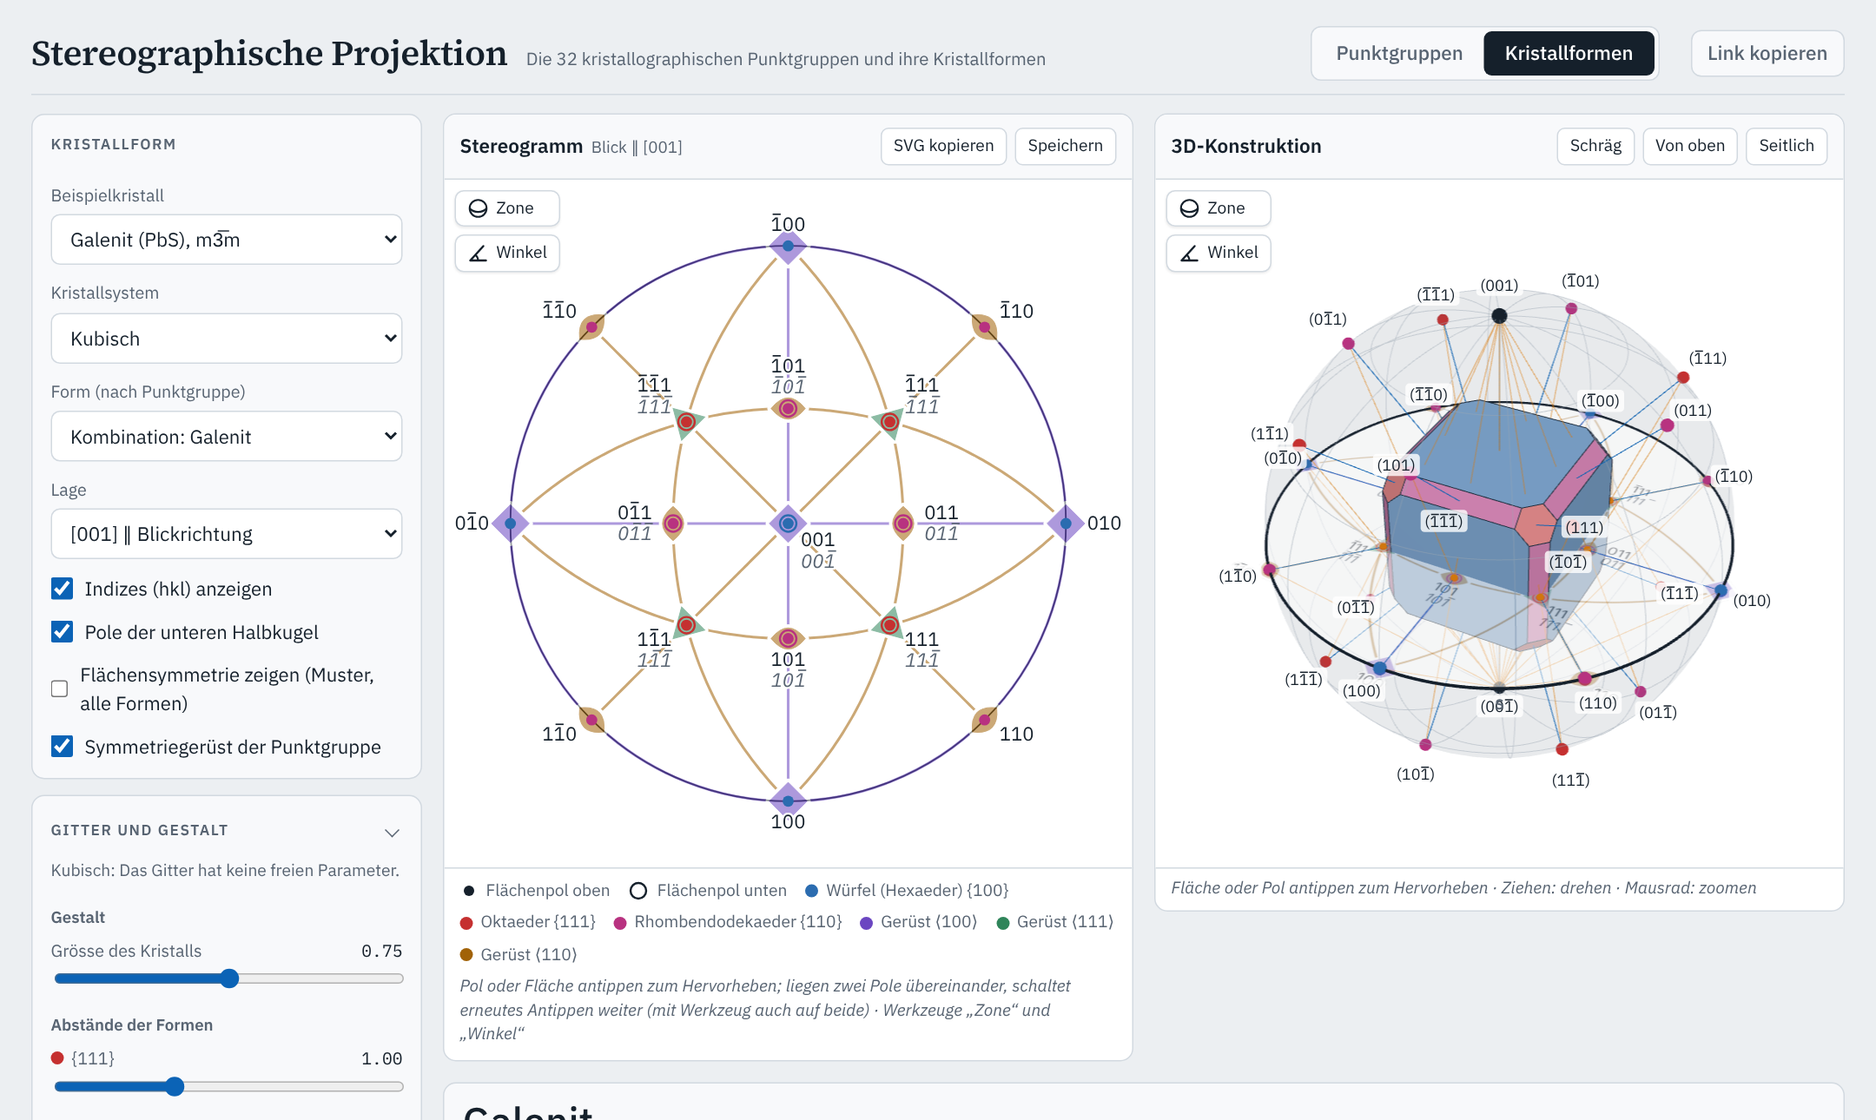
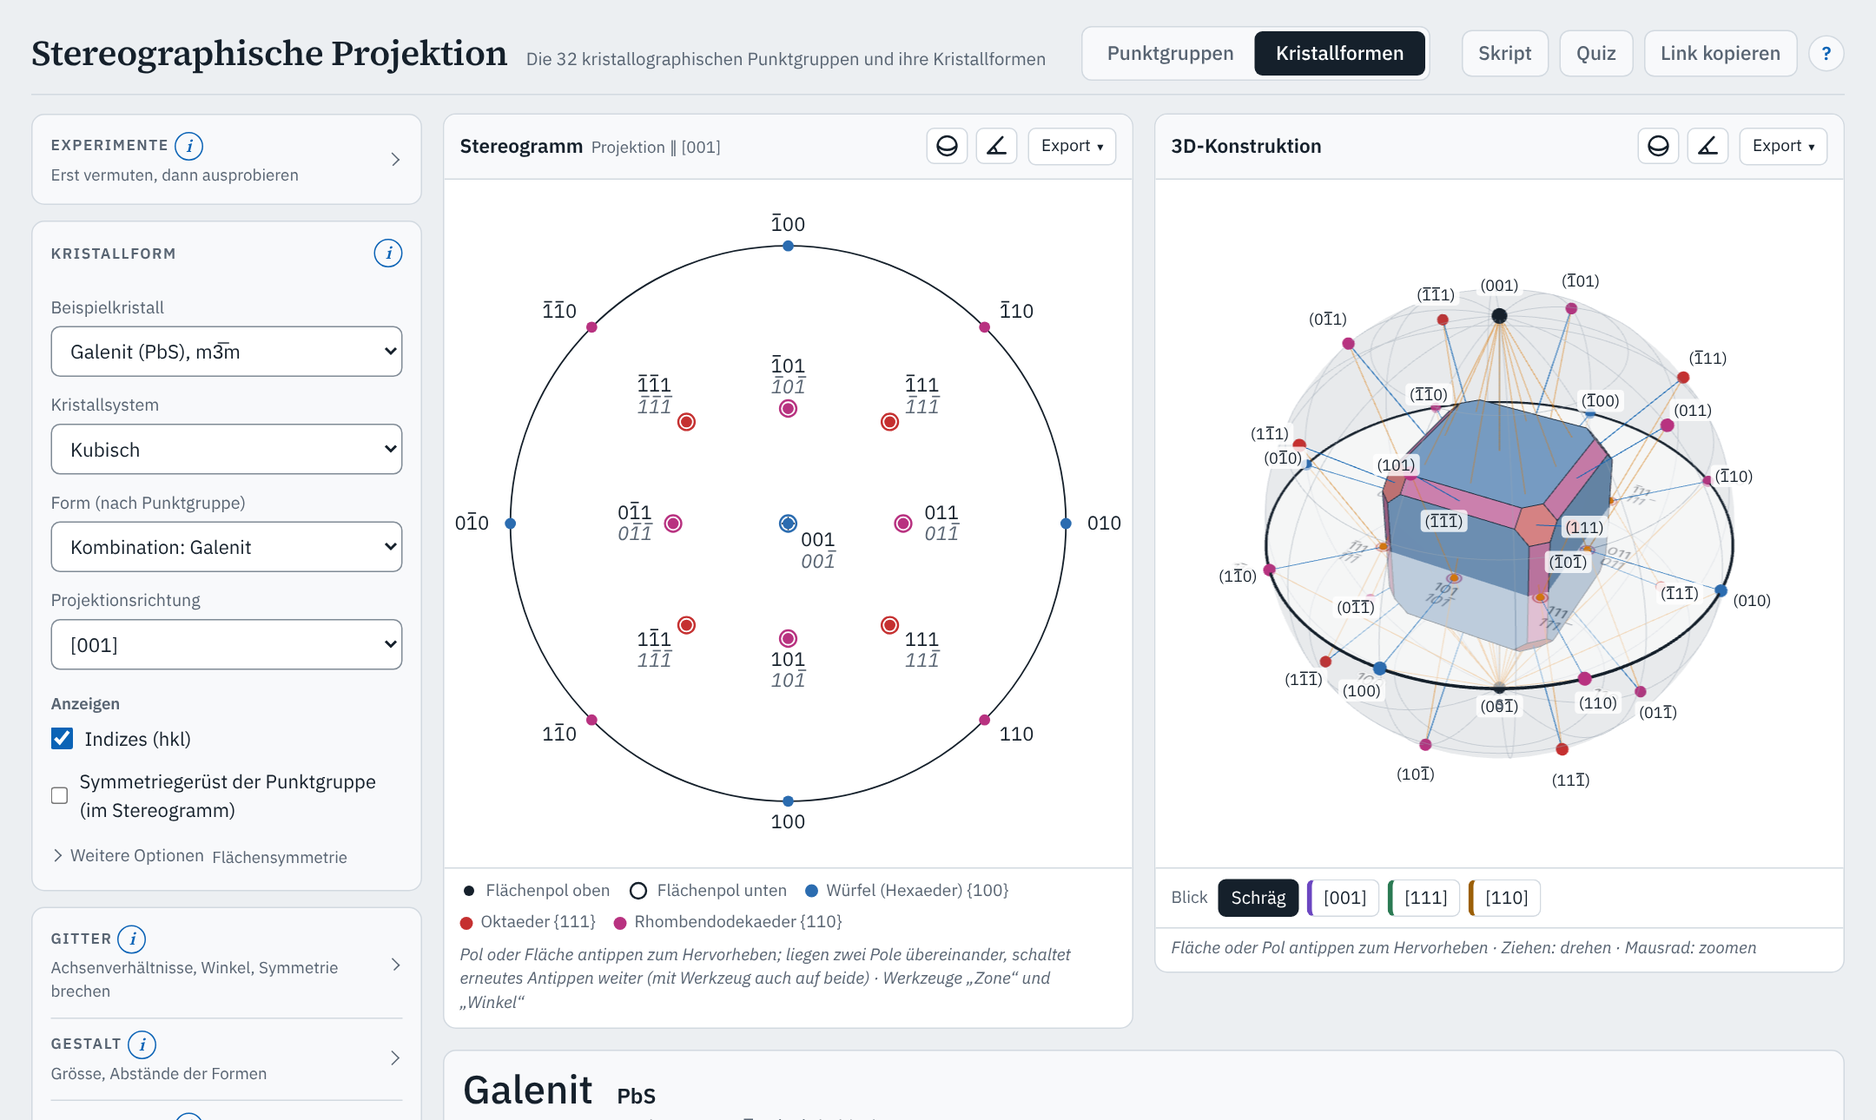
Gemeinsame Grundlage v0.22.0; README mit Bildern zu den Funktionen
common vom Tag v0.22.0 übernommen, Version im CHANGELOG eingesetzt. README: neues
Bildschirmfoto, Funktionen nach Modi mit je drei Bildern; tools/readme-bilder.mjs erzeugt sie.

Claude-Session: https://claude.ai/code/session_01L8SY95hsTWHeusDyUFRMq1

diff --git a/lib/common/js/version.js b/lib/common/js/version.js
@@ -1,2 +1,2 @@
 // Version von crystallography-common (Semantic Versioning). Gleich in CHANGELOG.md und im Tag vX.Y.Z.
-export const COMMON_VERSION = '0.21.0';
+export const COMMON_VERSION = '0.22.0';

diff --git a/README.md b/README.md
@@ -11,28 +11,56 @@ Teil einer Familie von Lern-Apps mit gemeinsamer Grundlage: [crystallography-com
 
 ### [Zur App: manganite.github.io/stereography](https://manganite.github.io/stereography/)
 
-![Stereogramm und 3D-Konstruktion eines Galenit-Kristalls (Würfel, Oktaeder, Rhombendodekaeder) mit Symmetriegerüst m3̄m](docs/screenshot.png)
+![Stereogramm und 3D-Konstruktion eines Galenit-Kristalls (Würfel, Oktaeder, Rhombendodekaeder) mit indizierten Flächenpolen](docs/screenshot.png)
 
 ## Funktionen
+
+Zwei Modi teilen sich die Werkbank: links die Einstellungen, rechts das Stereogramm und die 3D-Konstruktion, darunter die Kenndaten.
+
+### Punktgruppen
+
+<table>
+<tr><td width="33%"><img src="docs/readme/pg-stereogramm.png" alt="Stereogramm von 4/mmm mit Symmetriegerüst und Polen der allgemeinen Lage, nach Händigkeit gefärbt"></td><td width="33%"><img src="docs/readme/pg-3d.png" alt="3D-Konstruktion von 4mm mit Umkugel, Symmetrieelementen und Projektionsstrahlen"></td><td width="33%"><img src="docs/readme/pg-trigonal.png" alt="Stereogramm von 3̄m mit Polen oben und unten"></td></tr>
+<tr><td>Stereogramm von 4/<i>mmm</i>, Pole nach Händigkeit gefärbt</td><td>3D-Konstruktion zu 4<i>mm</i></td><td>3̄<i>m</i>: Pole oben (Punkt) und unten (Kreis)</td></tr>
+</table>
 
 - **32 kristallographische Punktgruppen:** Stereogramme der Symmetriegerüste nach International Tables for Crystallography, Vol. A, inklusive der in ITA separat geführten Aufstellungen (monoklin Achse b/c, 321/312, 3m1/31m, 3̄m1/3̄1m, 4̄2m/4̄m2, 6̄m2/6̄2m).
 - **Objekt in allgemeiner Lage:** Alle Symmetrieoperationen der Gruppe werden darauf angewendet (Pol im Stereogramm ziehbar; Antippen des Ausgangspols wechselt die Halbkugel). Punktgruppen mit zwei Aufstellungen erscheinen im Auswahlfeld als ein Button, die Aufstellung wird darunter gewählt.
 - **Spezielle Lagen:** Nahe an einer Achse oder Spiegelebene rastet der Ausgangspol beim Ziehen ein. Die Infobox nennt die Lage des Ausgangspols mit Wyckoff-Lage und Lagesymmetrie nach ITA Tab. 10.1.2.2 (z. B. in m3̄m: allgemein 48*f*, auf einer Spiegelebene 24*d* m.. bzw. 24*e* ..m, auf [111] 8*b* .3m) und erklärt die Polzahl als Ordnung der Gruppe durch Ordnung der Lagesymmetrie. Zusammenfallende Pole werden einmal gezeichnet; fallen Bild und Spiegelbild zusammen, ist der Pol bei „Pole nach Händigkeit färben“ grau.
-- **Kristallformen aller 32 Punktgruppen:** Auswahl nach Kristallsystem und Form, je Punktgruppe die allgemeine Form und die speziellen Grundformen nach ITA Tab. 10.1.2.2 (134 Formen, bei 32, 3m, 3̄m, 4̄2m und 6̄m2 in beiden Aufstellungen, z. B. 321 und 312; monoklin mit Achse b; Namen nach Borchardt-Ott & Sowa mit abweichenden ITA-Namen in Klammern, Eigensymmetrie nach Tab. 10.1.2.3), mit einblendbaren Indizes (hkl), bei hexagonalen Achsen wahlweise (hkil). Offene Formen werden durch Ergänzungsformen derselben Punktgruppe geschlossen (grau) oder wahlweise offen gezeigt. Optional liegt das Symmetriegerüst der Punktgruppe gedämpft unter den Polen. Ohne Flächensymmetrie (Standard) enthält die Auswahl je Punktgruppe die allgemeine Form und die Formen, deren Eigensymmetrie die Punktgruppe ist, im trigonalen System dazu das trigonale und das hexagonale Prisma (Eigensymmetrie hexagonal) unter ihrer Gruppe (82 Formen; z. B. Würfel nur unter m3̄m). Mit „Flächensymmetrie zeigen“ erscheinen alle 134 Formen, und die Flächen tragen ein Muster in allgemeiner Lage, das mit allen Operationen der Punktgruppe vervielfältigt ist; seine Anordnung zeigt die Flächensymmetrie (z. B. Würfel in 23: 2.., in m3̄m: 4m.m).
-- **Zonen (Werkzeug „Zone“ am Stereogramm):** Zwei Pole antippen zeigt Zonenkreis (untere Hälfte gestrichelt), Zonenachse [uvw] = (h₁k₁l₁) × (h₂k₂l₂) mit ihrem Pol, alle Flächen der Zone nach der Zonengleichung hu + kv + lw = 0, den Winkel zwischen den Polen und in 3D die zur Zonenachse parallelen Kanten. Weicht die Richtung [uvw] von der Normalen (uvw) ab (in nicht kubischen Gittern möglich), wird die Abweichung angegeben. Die Infobox listet alle Zonen des Kristalls mit mindestens drei Flächen (Borchardt-Ott & Sowa), gruppiert nach symmetrisch gleichwertigen Zonenachsen ⟨uvw⟩; Zonen lassen sich gruppenweise oder einzeln wählen, auch mehrere zugleich, jede in eigener Farbe (Zonenkreis, Flächen, Pole). Zwei angetippte Pole fügen ihre Zone der Auswahl hinzu.
-- **Skript** (`skript.html`): erklärt die stereographische Projektion mit Abbildungen aus dem Code der App; jede Abbildung öffnet mit einem Klick genau diese Ansicht in der App. Elf Kapitel: Kristallflächen und Indizes, Prinzip der Projektion, Symmetrieoperationen und Punktgruppen, Symmetriegerüste, Blickrichtungen, Kristallformen, Zonen, Tracht und Habitus, trigonale und hexagonale Kristalle, als Vertiefungen Lagen, Flächensymmetrie und Multiplizität sowie symmetrieändernde Verzerrungen; Begriffe nach Borchardt-Ott & Sowa, Quellen je Kapitel. Vertiefungen über den Grundstoff hinaus und Hinweise zur App sind eigens gekennzeichnet. Als PDF (A4) unter [skript.pdf](https://manganite.github.io/stereography/skript.pdf) und als Anhang jedes Releases; erzeugt mit `node tools/skript-pdf.mjs [Ausgabedatei]` (braucht Playwright mit Chromium).
-- **Quiz** (`quiz.html`): Multiple-Choice-Fragen zu den Lernzielen des Skripts in drei Stufen (1 Grundlagen, 2 Anwendung, 3 Vertiefung; Stufe 3 bedeutet mehr Stoff, nicht unbedingt schwierigere Fragen), nach Kapitel wählbar, mit sofortiger Rückmeldung: Erklärung, Hinweis zur gewählten falschen Antwort, Link ins Skript und in die passende Ansicht der App. Am Ende jedes Skriptkapitels führt „Lernziele prüfen“ mit Kapitel und Stufe ins Quiz. Fragetypen: Einfach- und Mehrfachauswahl, Frage mit Bild, Bilder als Antworten, Bild mit Bildern als Antworten. Neben handgeschriebenen Fragen erzeugt das Quiz Fragen aus den Daten der App: Symmetriegerüst → Punktgruppe für alle 32 Punktgruppen, Flächenzahl und Flächensymmetrie, Bildzuordnungen Kristall ↔ Stereogramm, Lage ↔ Stereogramm und räumliches Symmetriegerüst ↔ Stereogramm mit festen räumlichen Zeichnungen. Höchstens die Hälfte eines Quiz sind erzeugte Fragen. Der Stand wird nur lokal im Browser gespeichert. Standardmässig erscheinen nur fachlich durchgesehene Fragen; der Schalter „Auch ungeprüfte Fragen zeigen“ auf der Startseite (oder `quiz.html?entwurf`) nimmt die übrigen dazu, gekennzeichnet mit „Entwurf“. Export für Moodle: `node tools/moodle-export.mjs quiz.xml` (Moodle-XML, Fragentyp Multiple Choice, Bilder als eingebettete SVG, Kategorien nach Kapitel und Stufe; mit `--entwurf` auch die ungeprüften Fragen).
-- **Winkel (Werkzeug „Winkel“):** Zwei Pole oder Flächen wählen zeigt den Grosskreisbogen zwischen den Polen (im Stereogramm, auf der unteren Halbkugel gestrichelt, und auf der Umkugel in 3D), den Normalenwinkel n zwischen den Flächennormalen und den Flächenwinkel f = 180° − n (Begriffe nach Borchardt-Ott & Sowa).
+- **Blickrichtungen:** Die Symmetrieelemente werden den Positionen des vollen Hermann-Mauguin-Symbols zugeordnet (Klassen äquivalenter Richtungen, z. B. in m3̄m ⟨100⟩, ⟨111⟩, ⟨110⟩) und auf Wunsch in deren Farbe gezeichnet, im Stereogramm, in der 3D-Ansicht, im vollen Symbol und in der nach Blickrichtungen gegliederten Liste der Infobox. In der 3D-Ansicht lassen sich einzelne Blickrichtungen ausblenden. Ohne Farben entspricht das Stereogramm der schwarzen ITA-Darstellung.
 - **Winkel im Punktgruppenmodus:** Mit dem Werkzeug „Winkel“ zwei Pole der allgemeinen Lage antippen; die Infobox nennt den Winkel und die Symmetrieoperation, die die beiden Pole ineinander überführt.
-- **Tracht und Habitus** (Begriffe nach Borchardt-Ott & Sowa, Abschn. 5.2): Die Infobox nennt die auftretenden Formen und den Habitus-Grundtyp (isometrisch, planar oder taflig, prismatisch oder nadelig), bestimmt aus den Hauptausdehnungen L₁ ≥ L₂ ≥ L₃ des dargestellten Kristalls (zweite Momente des Körpers): isometrisch, wenn L₃/L₁ ≥ 2/3, sonst prismatisch oder planar.
+
+### Kristallformen
+
+<table>
+<tr><td width="33%"><img src="docs/readme/form-quarz.png" alt="Linksquarz als 3D-Konstruktion mit Umkugel und Flächenpolen"></td><td width="33%"><img src="docs/readme/form-zonen.png" alt="Stereogramm von Galenit mit zwei gewählten Zonen"></td><td width="33%"><img src="docs/readme/form-brechen.png" alt="Oktaeder entlang [111] gestreckt, Symmetrie gebrochen"></td></tr>
+<tr><td>Linksquarz (Beispielkristall)</td><td>Zonen [001] und [111] am Galenit</td><td>Symmetrie brechen: Oktaeder entlang [111] gestreckt</td></tr>
+</table>
+
+- **Kristallformen aller 32 Punktgruppen:** Auswahl nach Kristallsystem und Form, je Punktgruppe die allgemeine Form und die speziellen Grundformen nach ITA Tab. 10.1.2.2 (134 Formen, bei 32, 3m, 3̄m, 4̄2m und 6̄m2 in beiden Aufstellungen, z. B. 321 und 312; monoklin mit Achse b; Namen nach Borchardt-Ott & Sowa mit abweichenden ITA-Namen in Klammern, Eigensymmetrie nach Tab. 10.1.2.3), mit einblendbaren Indizes (hkl), bei hexagonalen Achsen wahlweise (hkil). Offene Formen werden durch Ergänzungsformen derselben Punktgruppe geschlossen (grau) oder wahlweise offen gezeigt. Optional liegt das Symmetriegerüst der Punktgruppe gedämpft unter den Polen. Ohne Flächensymmetrie (Standard) enthält die Auswahl je Punktgruppe die allgemeine Form und die Formen, deren Eigensymmetrie die Punktgruppe ist, im trigonalen System dazu das trigonale und das hexagonale Prisma (Eigensymmetrie hexagonal) unter ihrer Gruppe (82 Formen; z. B. Würfel nur unter m3̄m). Mit „Flächensymmetrie zeigen“ erscheinen alle 134 Formen, und die Flächen tragen ein Muster in allgemeiner Lage, das mit allen Operationen der Punktgruppe vervielfältigt ist; seine Anordnung zeigt die Flächensymmetrie (z. B. Würfel in 23: 2.., in m3̄m: 4m.m).
 - **Beispielkristalle:** Kombinationen mehrerer Formen derselben Punktgruppe aus Lehrbüchern (Galenit, Pyrit, zwei tetragonale Dipyramiden, Rutil, ein rhombisch-pyramidaler Kristall, Topas, Gips, ein triklin-pinakoidaler Kristall, Magnesium, Links- und Rechtsquarz, Turmalin), mit Quelle. Jede Form hat eine eigene Farbe; die Infobox listet die Tracht mit Flächenzahl und Eigensymmetrie. Gitter und Abstände der Formen lassen sich unter „Gitter und Gestalt“ ändern; die Abstände sind nach den Abbildungen gewählt, nicht gemessen.
-- **Bildexport:** Über dem Stereogramm und der 3D-Konstruktion „Export ▾“: Kopieren (PNG) für Folien, SVG-Datei (nur Stereogramm) und PNG-Datei (Stereogramm 2048 × 2048 Pixel, 3D in der gezeigten Ansicht etwa 2000 Pixel breit); immer in den hellen Farben, Hintergrund ausserhalb des Grundkreises bzw. um die Konstruktion durchsichtig. Auf dem Telefon kein Export.
-- **Links auf Ansichten:** Der Zustand steht lesbar in der Adresse; „Link kopieren“ kopiert sie, etwa für Folien. Ein Link hat Vorrang vor dem gespeicherten Zustand. Ein Link mit `blick=` öffnet auf dem Telefon die 3D-Tafel. Alle Schlüssel unter [Link-Adressen](#link-adressen).
+- **Zonen (Werkzeug „Zone“ am Stereogramm):** Zwei Pole antippen zeigt Zonenkreis (untere Hälfte gestrichelt), Zonenachse [uvw] = (h₁k₁l₁) × (h₂k₂l₂) mit ihrem Pol, alle Flächen der Zone nach der Zonengleichung hu + kv + lw = 0, den Winkel zwischen den Polen und in 3D die zur Zonenachse parallelen Kanten. Weicht die Richtung [uvw] von der Normalen (uvw) ab (in nicht kubischen Gittern möglich), wird die Abweichung angegeben. Die Infobox listet alle Zonen des Kristalls mit mindestens drei Flächen (Borchardt-Ott & Sowa), gruppiert nach symmetrisch gleichwertigen Zonenachsen ⟨uvw⟩; Zonen lassen sich gruppenweise oder einzeln wählen, auch mehrere zugleich, jede in eigener Farbe (Zonenkreis, Flächen, Pole). Zwei angetippte Pole fügen ihre Zone der Auswahl hinzu.
+- **Winkel (Werkzeug „Winkel“):** Zwei Pole oder Flächen wählen zeigt den Grosskreisbogen zwischen den Polen (im Stereogramm, auf der unteren Halbkugel gestrichelt, und auf der Umkugel in 3D), den Normalenwinkel n zwischen den Flächennormalen und den Flächenwinkel f = 180° − n (Begriffe nach Borchardt-Ott & Sowa).
+- **Tracht und Habitus** (Begriffe nach Borchardt-Ott & Sowa, Abschn. 5.2): Die Infobox nennt die auftretenden Formen und den Habitus-Grundtyp (isometrisch, planar oder taflig, prismatisch oder nadelig), bestimmt aus den Hauptausdehnungen L₁ ≥ L₂ ≥ L₃ des dargestellten Kristalls (zweite Momente des Körpers): isometrisch, wenn L₃/L₁ ≥ 2/3, sonst prismatisch oder planar.
 - **Verzerrung in zwei Stufen:** Standardmässig sind nur die Gitterparameter frei, die das Kristallsystem zulässt; die Symmetrie bleibt erhalten. Mit „Symmetrie brechen“ sind alle Parameter frei; die App bestimmt dann die verbleibende Punktgruppe und zeigt, in welche Formen die gewählte Form zerfällt (farbig).
 - **Streckung entlang einer Blickrichtung:** Kristall und Gitter entlang einer Blickrichtung des Systems strecken oder stauchen, z. B. den Würfel entlang [111] zum Rhomboeder (m3̄m → 3̄m). Bei trigonaler Restgruppe eines kubischen Kristalls nennt die Infobox die hexagonalen Achsen und die Formen in hexagonalen Indizes.
-- **Blickrichtungen:** Die Symmetrieelemente werden den Positionen des vollen Hermann-Mauguin-Symbols zugeordnet (Klassen äquivalenter Richtungen, z. B. in m3̄m ⟨100⟩, ⟨111⟩, ⟨110⟩) und auf Wunsch in deren Farbe gezeichnet, im Stereogramm, in der 3D-Ansicht, im vollen Symbol und in der nach Blickrichtungen gegliederten Liste der Infobox. In der 3D-Ansicht lassen sich einzelne Blickrichtungen ausblenden. Ohne Farben entspricht das Stereogramm der schwarzen ITA-Darstellung.
-- **Hilfen für den Einstieg:** Karte „Erste Schritte“ je Modus beim ersten Aufruf, Experimente zum Vermuten und Ausprobieren, „?“ führt zur [Hilfeseite](https://manganite.github.io/stereography/hilfe.html), einer Anleitung zur Bedienung (Überblick, Bedienkonzepte, je Modus Seitenleiste, Tafeln und Kenndaten mit nummerierten Bildern, Anleitungen, Experimente, typische Fragen, Link, Speicher und Geräte); jedes ⓘ verweist an die passende Stelle, Tooltips am Laptop, ⓘ-Erklärungen je Abschnitt (auf allen Geräten), Tooltip mit (hkl), ρ und φ über jedem Flächenpol. Selten gebrauchte Optionen liegen in zugeklappten Abschnitten.
+
+### In beiden Modi
+
 - **3D-Konstruktion,** gekoppelt an das Stereogramm: Umkugel, Flächennormalen, Projektionsstrahlen zum Süd- bzw. Nordpol und das Stereogramm in der Äquatorebene.
+- **Bildexport:** Über dem Stereogramm und der 3D-Konstruktion „Export ▾“: Kopieren (PNG) für Folien, SVG-Datei (nur Stereogramm) und PNG-Datei (Stereogramm 2048 × 2048 Pixel, 3D in der gezeigten Ansicht etwa 2000 Pixel breit); immer in den hellen Farben, Hintergrund ausserhalb des Grundkreises bzw. um die Konstruktion durchsichtig. Auf dem Telefon kein Export.
+- **Links auf Ansichten:** Der Zustand steht lesbar in der Adresse; „Link kopieren“ kopiert sie, etwa für Folien. Ein Link hat Vorrang vor dem gespeicherten Zustand. Ein Link mit `blick=` öffnet auf dem Telefon die 3D-Tafel. Alle Schlüssel unter [Link-Adressen](#link-adressen).
+- **Hilfen für den Einstieg:** Karte „Erste Schritte“ je Modus beim ersten Aufruf, Experimente zum Vermuten und Ausprobieren, „?“ führt zur [Hilfeseite](https://manganite.github.io/stereography/hilfe.html), einer Anleitung zur Bedienung (Überblick, Bedienkonzepte, je Modus Seitenleiste, Tafeln und Kenndaten mit nummerierten Bildern, Anleitungen, Experimente, typische Fragen, Link, Speicher und Geräte); jedes ⓘ verweist an die passende Stelle, Tooltips am Laptop, ⓘ-Erklärungen je Abschnitt (auf allen Geräten), Tooltip mit (hkl), ρ und φ über jedem Flächenpol. Selten gebrauchte Optionen liegen in zugeklappten Abschnitten.
+
+### Skript, Quiz und Hilfe
+
+<table>
+<tr><td width="33%"><img src="docs/readme/skript.png" alt="Skript, Kapitel Zonen, mit Inhaltsverzeichnis"></td><td width="33%"><img src="docs/readme/quiz.png" alt="Startseite des Quiz mit Stufen und Kapiteln"></td><td width="33%"><img src="docs/readme/hilfe.png" alt="Hilfeseite mit nummeriertem Bild der Tafel Stereogramm"></td></tr>
+<tr><td>Skript mit Abbildungen aus der App</td><td>Quiz in drei Stufen</td><td>Hilfeseite: Anleitung zur Bedienung</td></tr>
+</table>
+
+- **Skript** (`skript.html`): erklärt die stereographische Projektion mit Abbildungen aus dem Code der App; jede Abbildung öffnet mit einem Klick genau diese Ansicht in der App. Elf Kapitel: Kristallflächen und Indizes, Prinzip der Projektion, Symmetrieoperationen und Punktgruppen, Symmetriegerüste, Blickrichtungen, Kristallformen, Zonen, Tracht und Habitus, trigonale und hexagonale Kristalle, als Vertiefungen Lagen, Flächensymmetrie und Multiplizität sowie symmetrieändernde Verzerrungen; Begriffe nach Borchardt-Ott & Sowa, Quellen je Kapitel. Vertiefungen über den Grundstoff hinaus und Hinweise zur App sind eigens gekennzeichnet. Als PDF (A4) unter [skript.pdf](https://manganite.github.io/stereography/skript.pdf) und als Anhang jedes Releases; erzeugt mit `node tools/skript-pdf.mjs [Ausgabedatei]` (braucht Playwright mit Chromium).
+- **Quiz** (`quiz.html`): Multiple-Choice-Fragen zu den Lernzielen des Skripts in drei Stufen (1 Grundlagen, 2 Anwendung, 3 Vertiefung; Stufe 3 bedeutet mehr Stoff, nicht unbedingt schwierigere Fragen), nach Kapitel wählbar, mit sofortiger Rückmeldung: Erklärung, Hinweis zur gewählten falschen Antwort, Link ins Skript und in die passende Ansicht der App. Am Ende jedes Skriptkapitels führt „Lernziele prüfen“ mit Kapitel und Stufe ins Quiz. Fragetypen: Einfach- und Mehrfachauswahl, Frage mit Bild, Bilder als Antworten, Bild mit Bildern als Antworten. Neben handgeschriebenen Fragen erzeugt das Quiz Fragen aus den Daten der App: Symmetriegerüst → Punktgruppe für alle 32 Punktgruppen, Flächenzahl und Flächensymmetrie, Bildzuordnungen Kristall ↔ Stereogramm, Lage ↔ Stereogramm und räumliches Symmetriegerüst ↔ Stereogramm mit festen räumlichen Zeichnungen. Höchstens die Hälfte eines Quiz sind erzeugte Fragen. Der Stand wird nur lokal im Browser gespeichert. Standardmässig erscheinen nur fachlich durchgesehene Fragen; der Schalter „Auch ungeprüfte Fragen zeigen“ auf der Startseite (oder `quiz.html?entwurf`) nimmt die übrigen dazu, gekennzeichnet mit „Entwurf“. Export für Moodle: `node tools/moodle-export.mjs quiz.xml` (Moodle-XML, Fragentyp Multiple Choice, Bilder als eingebettete SVG, Kategorien nach Kapitel und Stufe; mit `--entwurf` auch die ungeprüften Fragen).
 
 ## Nutzung
 
@@ -171,6 +199,7 @@ Darstellung (beide Modi):
 | `js/main.js` | Bedienung der App |
 | `js/hilfetexte.js` | Texte der Tooltips und ⓘ-Erklärungen, Erste Schritte und Experimente |
 | `hilfe.html`, `js/hilfe.js`, `js/hilfe-daten.js`, `hilfe/` | Hilfeseite: Erste Schritte als Anleitungen mit Bildern, Experimente als Liste (Reihenfolge `EXPERIMENTE` auch für die App); Bilder mit `node tools/common/hilfe-bilder.mjs` |
+| `tools/readme-bilder.mjs`, `docs/screenshot.png`, `docs/readme/` | Bilder dieses README: Bildschirmfoto und Bilder zu den Funktionen, je eine Ansicht der App (`BILDER`); neu mit `node tools/readme-bilder.mjs` |
 | `js/version.js` | Versionsnummer der App |
 | `sw.js` | Service Worker für den Offline-Betrieb |
 | `tests/` | Automatische Tests (Node, ohne Abhängigkeiten) |

diff --git a/CHANGELOG.md b/CHANGELOG.md
@@ -8,11 +8,12 @@ Das Format folgt [Keep a Changelog](https://keepachangelog.com/de/1.1.0/), die V
 
 ### Geändert
 
+- **README:** neues Bildschirmfoto, die Funktionen nach Modi gegliedert, je mit drei Bildern aus der App, dazu Skript, Quiz und Hilfeseite im Bild. Die Bilder erzeugt `tools/readme-bilder.mjs` aus Ansichten der App (neu).
 - **Hilfeseite als Anleitung** (crystallography-common#114, Entscheidungen Thomas 15.11.2026): Überblick (Zweck, Teile, Modi, Aufbau der App), Bedienkonzepte, je Modus Seitenleiste, Stereogramm, 3D-Konstruktion und Kenndaten zum Nachschlagen mit nummerierten Bildern, die Erste Schritte und vier weitere Anleitungen (Winkel und Operation zwischen zwei Polen, Zone bestimmen, Winkel zwischen zwei Flächen, Symmetrie brechen), die Experimente, sechs typische Fragen und zuletzt Link, Speicher, offline, Export, Geräte und Tastatur. Texte in `js/hilfe-anleitung.js`.
 - **Verweis aus dem ⓘ:** Jede ⓘ-Erklärung endet mit „Mehr in der Hilfe“ an der passenden Stelle des Modus.
 - **Experiment von der Hilfeseite:** startet im richtigen Modus und ohne die Karte „Erste Schritte“ daneben.
 - **Tooltips der Umschalter** Stereogramm / 3D auf dem Telefon.
-- **Gemeinsame Grundlage** auf crystallography-common vX.Y.Z: Hilfeseite als Anleitung, gemeinsame Texte, Verweise aus dem ⓘ.
+- **Gemeinsame Grundlage** auf crystallography-common v0.22.0: Hilfeseite als Anleitung, gemeinsame Texte, Verweise aus dem ⓘ.
 
 ## [1.18.0] - 2026-11-15
 
